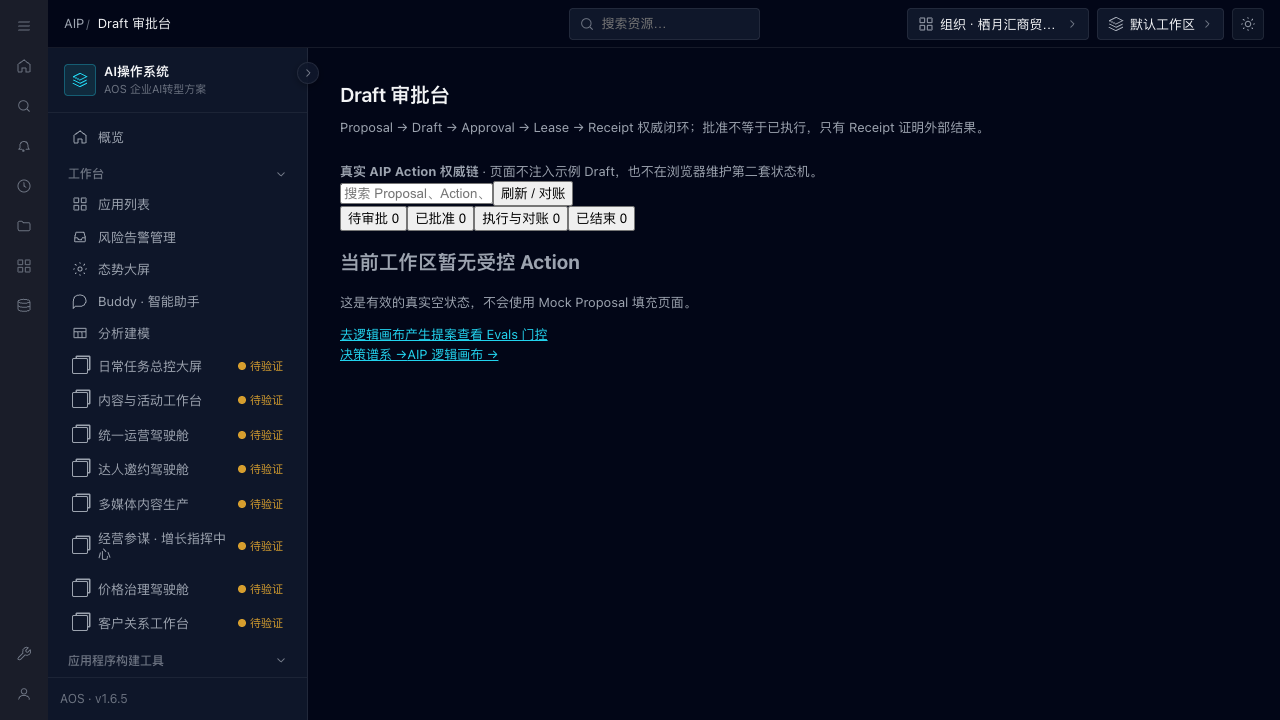
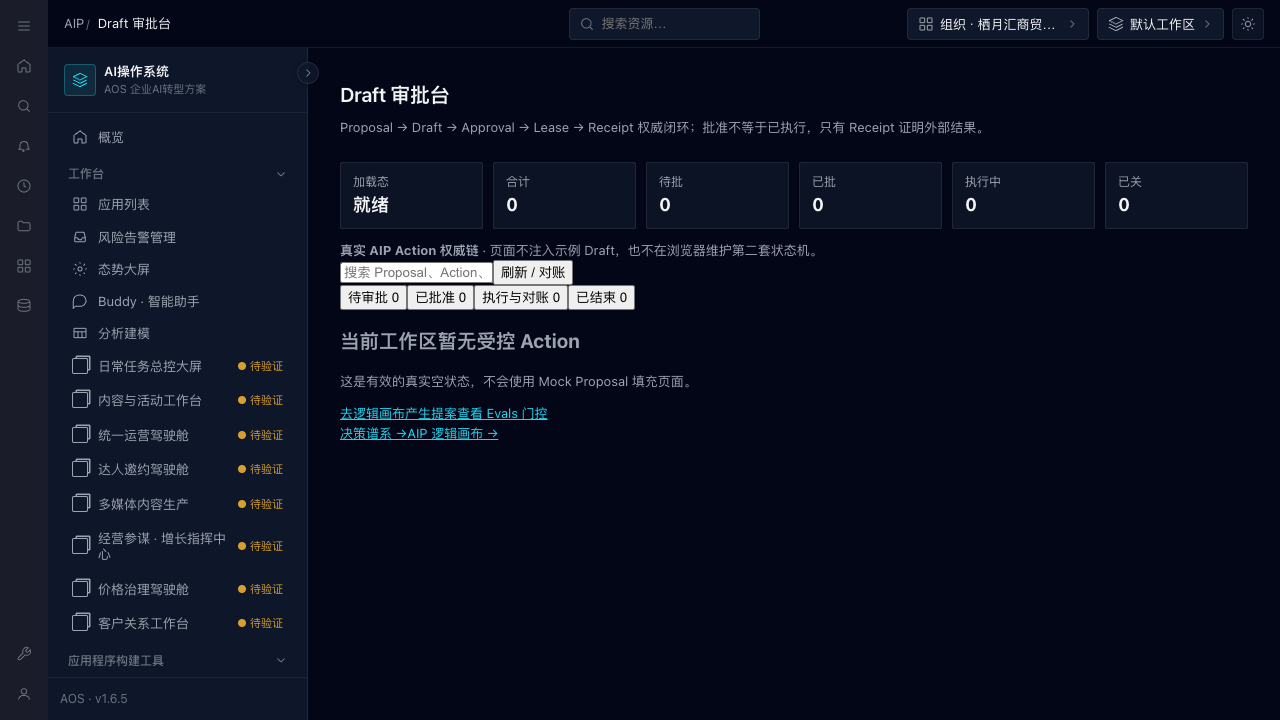
fix(aip): densify canonical draft inbox ops stats (W-I15)
Route /aip/drafts renders CanonicalDraftInboxPage; put live tab counts on that shell.

diff --git a/apps/web/src/pages/CanonicalDraftInboxPage.tsx b/apps/web/src/pages/CanonicalDraftInboxPage.tsx
@@ -200,6 +200,24 @@ export function CanonicalDraftInboxPage({ sdk = aipActionsSdk }: CanonicalDraftI
       title="Draft 审批台"
       lede="Proposal → Draft → Approval → Lease → Receipt 权威闭环；批准不等于已执行，只有 Receipt 证明外部结果。"
     >
+      <div
+        data-testid="drafts-ops-stats"
+        style={{ display: "grid", gridTemplateColumns: "repeat(auto-fit,minmax(110px,1fr))", gap: 10, marginBottom: 12 }}
+      >
+        {[
+          { label: "加载态", value: state === "ready" ? "就绪" : state === "loading" ? "读取中" : "失败" },
+          { label: "合计", value: String(items.length) },
+          { label: "待批", value: String(counts.approval) },
+          { label: "已批", value: String(counts.approved) },
+          { label: "执行中", value: String(counts.execution) },
+          { label: "已关", value: String(counts.closed) },
+        ].map((s) => (
+          <div key={s.label} className="card" style={{ padding: "10px 12px" }}>
+            <div style={{ fontSize: 12, color: "var(--aos-text-secondary)" }}>{s.label}</div>
+            <div style={{ fontSize: 18, fontWeight: 700, fontVariantNumeric: "tabular-nums" }}>{s.value}</div>
+          </div>
+        ))}
+      </div>
       <div className="space-y-4" data-testid="canonical-action-inbox">
         <div className="rounded-lg border border-blue-200 bg-blue-50 p-3 text-sm text-blue-900">
           <strong>真实 AIP Action 权威链</strong> · 页面不注入示例 Draft，也不在浏览器维护第二套状态机。
